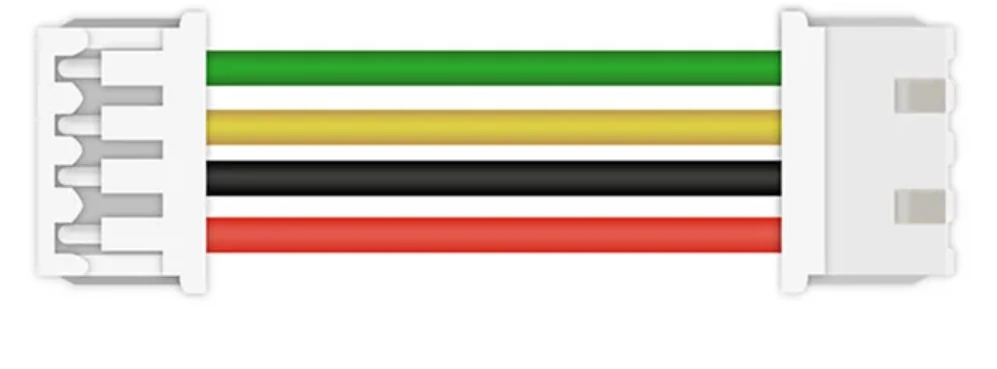
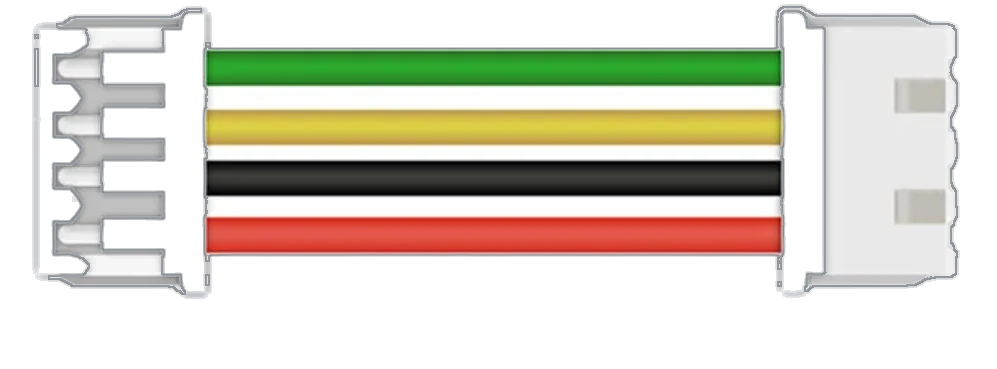
The owner's review of STEPFOC (2026-11-11): presets, the 1 mm gap, the model render, pictures without backgrounds
- Quick start part 3 and Motor parameters and calibration: a tip at the motor parameters recommending a Motor GUI
  preset (it enters the pole pairs, R and L with safe limits and gains; Generic motor for any other stepper, from
  the datasheet values), as Motor GUI's presets.ts does.
- The 1 mm is between the magnet and the encoder chip, not the board: the quick start's step and Check, the
  mounting page's spacer, step and Check.
- Dimensions and CAD, figure 3.3: a render of the board's model (the configurator's GLB, from the STEP file),
  transparent, outlined per theme, instead of the STEP picture.
- Figures 4.5, 4.6, 4.8, 6.1 and 7.1 (the cable orientation, the termination switch, the thermal cement, the rotation
  direction, the JTAG pads) cut out of their white backgrounds, a light and a dark version each; the holes and the
  slot in the board are see-through, the JTAG label box stays.
- Over CAN, figure 6.2: the identifier's bit fields as the SVG figure the grippers use, light and dark.

Tests and the strict build pass; page_check finds only the replaced STEP picture.

diff --git a/docs/04-mounting/power-and-can.md b/docs/04-mounting/power-and-can.md
@@ -23,7 +23,8 @@ feeds the next driver, so a chain of drivers hangs on one supply cable and one C
     ways, and the wrong way puts DC+ on DC−. Every cable must run as in the picture below, the same way at both
     ends. A wrong cable destroys the driver at the moment it is powered.
 
-![The orientation of the daisy-chain cables. The picture shows a generic 4-pin cable; the rule is the same for the 2-pin CAN and power cables.](../assets/Orientation.webp){ width="600" }
+![The orientation of the daisy-chain cables. The picture shows a generic 4-pin cable; the rule is the same for the 2-pin CAN and power cables.](../assets/Orientation.webp#only-light){ width="600" }
+![The orientation of the daisy-chain cables. The picture shows a generic 4-pin cable; the rule is the same for the 2-pin CAN and power cables.](../assets/Orientation_dark.webp#only-dark){ width="600" }
 
 The cables from the shop are made this way: [CAN cable](https://source-robotics.com/products/spectral-micro-can-cable),
 [power cable](https://source-robotics.com/products/spectral-micro-power-cable), and all of them under
@@ -42,4 +43,5 @@ The cables from the shop are made this way: [CAN cable](https://source-robotics.
 - A PC joins the bus with the [CANvas adapter](https://source-robotics.com/products/canvas-usb-to-can-adapter),
   which has its own termination.
 
-![The termination switch, ON for the first and the last node.](../assets/STEPFOC_CAN.webp){ width="520" }
+![The termination switch, ON for the first and the last node.](../assets/STEPFOC_CAN.webp#only-light){ width="520" }
+![The termination switch, ON for the first and the last node.](../assets/STEPFOC_CAN_dark.webp#only-dark){ width="520" }

diff --git a/docs/04-mounting/mounting.md b/docs/04-mounting/mounting.md
@@ -7,15 +7,14 @@ rear screws, with a spacer between the motor and the board that sets the magnet 
    them one at a time and put the spacer and the board on at once.
 2. Put the spacer on the motor. The firmware repository has printable spacers for common motor lengths in
    [Stepper motor accessories](https://github.com/Source-Robotics/STEPFOC-stepper-controller/tree/main/STEP%20files/Stepper%20motor%20accessories)
-   (NEMA 17, a 21.5 mm NEMA 17 version, NEMA 23); for another motor, make a spacer that puts the board 1 mm above
-   the magnet.
+   (NEMA 17, a 21.5 mm NEMA 17 version, NEMA 23); for another motor, make a spacer that leaves 1 mm between the magnet and the encoder chip.
 3. Put the board on the spacer, encoder chip towards the magnet, and fit longer screws of the same thread (M3 on a
    NEMA 17). Tighten them evenly; the board must be parallel to the magnet.
-4. Check the gap: about 1 mm, the magnet not touching the chip.
+4. Check the gap between the magnet and the encoder chip: about 1 mm, the magnet not touching it.
 
 !!! success "Check"
-    The board sits parallel to the back of the motor, about 1 mm above the magnet, and the shaft turns by hand
-    without the magnet touching the chip. If the gap is wrong: [The encoder magnet](magnet.md).
+    The board sits parallel to the back of the motor, with about 1 mm between the magnet and the encoder chip, and
+    the shaft turns by hand without the magnet touching the chip. If the gap is wrong: [The encoder magnet](magnet.md).
 
 A NEMA 23 motor takes the NEMA 23 spacer from the same folder. A smaller frame, such as NEMA 14, needs an adapter
 plate you make yourself: the repository has none.

diff --git a/docs/quick-start/1-motor.md b/docs/quick-start/1-motor.md
@@ -25,13 +25,13 @@ More: [The encoder magnet](../04-mounting/magnet.md).
 2. Put the spacer on.
 3. Put the board on the spacer, with the encoder chip towards the magnet.
 4. Put the longer screws in.
-5. Check the gap: 1 mm, not touching.
+5. Check the gap between the magnet and the encoder chip: 1 mm, not touching.
 
     ![Picture needed: the board on its spacer on the back of the motor, with the four longer screws](../assets/pilot/s1-board-on-spacer.svg){ width="560" }
 
 !!! success "Check"
-    The board sits parallel to the back of the motor, about 1 mm above the magnet, and the shaft turns by hand
-    without the magnet touching the chip. If not: [Mounting on the motor](../04-mounting/mounting.md).
+    The board sits parallel to the back of the motor, with about 1 mm between the magnet and the encoder chip, and
+    the shaft turns by hand without the magnet touching the chip. If not: [Mounting on the motor](../04-mounting/mounting.md).
 
 More: [Mounting on the motor](../04-mounting/mounting.md).
 

diff --git a/docs/06-operation/can.md b/docs/06-operation/can.md
@@ -12,8 +12,8 @@ one frame back per motor and cycle.
 CAN 2.0 data frames with 11-bit identifiers at 1 Mbit/s. The identifier carries the node, the command and the
 error state:
 
-![Bits 10 to 7 of the identifier are the node ID, bits 6 to 1 the command ID, bit 0 the error bit.](../assets/CANID.PNG#only-light){ width="600" }
-![Bits 10 to 7 of the identifier are the node ID, bits 6 to 1 the command ID, bit 0 the error bit.](../assets/CANID_dark.webp#only-dark){ width="600" }
+![Bits 10 to 7 of the identifier are the node ID, bits 6 to 1 the command ID, bit 0 the error bit.](../assets/can-id.svg#only-light){ width="600" }
+![Bits 10 to 7 of the identifier are the node ID, bits 6 to 1 the command ID, bit 0 the error bit.](../assets/can-id_dark.svg#only-dark){ width="600" }
 
 - **Node ID**, bits 10 to 7: which driver, 0 to 15. A driver acts only on frames with its own node ID and sends
   with it. Set it with `#CANID` or Send_CAN_ID and save; every driver ships as node 0. Use 0 to 13: the

diff --git a/docs/05-setup/calibration.md b/docs/05-setup/calibration.md
@@ -48,6 +48,12 @@ STEPFOC does not measure the resistance and inductance of a stepper (the Spectra
 enter them from the motor's datasheet, as the values of **one coil**, and the pole pairs. Calibration fails on a
 value left at 0, and accepts only 50, 75, 100 or 125 pole pairs.
 
+!!! tip "We recommend a Motor GUI preset"
+    In Motor GUI's **Presets** tab, a preset enters these values for you, with safe limits and gains. For a Source
+    Robotics product, pick its preset. For any other stepper, pick *Generic motor* and type the pole pairs, the
+    resistance and the inductance from the datasheet: the preset writes them with a low current limit and soft
+    loops, so the motor calibrates safely. More: [Motor GUI](motor-gui.md).
+
 === "Motor GUI"
     In the motor settings enter *Pole pairs* (50 for a 1.8° motor, 75 for 1.2°, 100 for 0.9°, 125 for 0.72°),
     *Resistance* in ohms and *Inductance* in henries, and apply them.

diff --git a/docs/03-technical-data/dimensions.md b/docs/03-technical-data/dimensions.md
@@ -15,7 +15,8 @@ on the motor shaft's axis.
 ![Board dimensions and hole pattern. The drawing is of the Spectral Micro, which has the same outline and hole pattern.](../assets/micro_dimensions.webp#only-light){ width="600" }
 ![Board dimensions and hole pattern. The drawing is of the Spectral Micro, which has the same outline and hole pattern.](../assets/micro_dimensions_dark.webp#only-dark){ width="600" }
 
-![The STEP model.](../assets/STEPFOC_STEP.webp){ width="520" }
+![The board's model, from its STEP file: the PCB and everything mounted on it.](../assets/renders/stepfoc_board.webp#only-light){ width="620" }
+![The board's model, from its STEP file: the PCB and everything mounted on it.](../assets/renders/stepfoc_board_dark.webp#only-dark){ width="620" }
 
 The STEP files of the board, the magnet spacers for different motor lengths and the tool for pressing the magnet
 onto the shaft are in the firmware repository:

diff --git a/docs/06-operation/modes.md b/docs/06-operation/modes.md
@@ -109,7 +109,8 @@ None of these settings is saved.
 
 ## Positive rotation
 
-![Positive rotation is counter-clockwise looking at the encoder magnet. A positive current turns the motor that way, a positive speed too, and the position grows.](../assets/STEPFOC_ORIENTATION.webp){ width="700" }
+![Positive rotation is counter-clockwise looking at the encoder magnet. A positive current turns the motor that way, a positive speed too, and the position grows.](../assets/STEPFOC_ORIENTATION.webp#only-light){ width="700" }
+![Positive rotation is counter-clockwise looking at the encoder magnet. A positive current turns the motor that way, a positive speed too, and the position grows.](../assets/STEPFOC_ORIENTATION_dark.webp#only-dark){ width="700" }
 
 ## Which mode am I in?
 

diff --git a/docs/07-firmware/bootloader.md b/docs/07-firmware/bootloader.md
@@ -34,7 +34,8 @@ once, with a programming adapter on the JTAG connector. After that, every update
 === "macOS"
     STM32CubeProgrammer; the ST-LINK Utility runs on Windows only. The adapter needs no driver.
 
-![The JTAG pads, marked 3V3, GND, SWCLK, SWDIO. The adapter is pressed onto them; a little pressure makes the contact.](../assets/STEPFOC_JTAG.webp){ width="700" }
+![The JTAG pads, marked 3V3, GND, SWCLK, SWDIO. The adapter is pressed onto them; a little pressure makes the contact.](../assets/STEPFOC_JTAG.webp#only-light){ width="700" }
+![The JTAG pads, marked 3V3, GND, SWCLK, SWDIO. The adapter is pressed onto them; a little pressure makes the contact.](../assets/STEPFOC_JTAG_dark.webp#only-dark){ width="700" }
 
 ## Steps
 

diff --git a/docs/04-mounting/thermistor.md b/docs/04-mounting/thermistor.md
@@ -20,7 +20,8 @@ windings as possible: either glued to the side of the housing, or in one of the 
 bottom with the screw removed, which puts it deep in the stack. Thermal cement holds it and conducts the heat.
 
 <figure markdown="span">
-  ![Thermal cement](../assets/Thermal_cement.webp){ width="220" }
+  ![Thermal cement](../assets/Thermal_cement.webp#only-light){ width="220" }
+  ![Thermal cement](../assets/Thermal_cement_dark.webp#only-dark){ width="220" }
   <figcaption>Thermal cement: it sets hard and conducts heat. Thermal paste stays soft and lets the bead move, ordinary glue insulates it. <a href="https://s.click.aliexpress.com/e/_c3dBOwTD" target="_blank" rel="noopener">Where to buy it</a>.</figcaption>
 </figure>
 

diff --git a/docs/quick-start/3-calibrate.md b/docs/quick-start/3-calibrate.md
@@ -33,6 +33,12 @@ From the motor's datasheet, for **one coil**:
 
 STEPFOC does not measure these; calibration fails on a value left at 0.
 
+!!! tip "We recommend a Motor GUI preset"
+    In Motor GUI's **Presets** tab, a preset enters these values for you, with safe limits and gains. For a Source
+    Robotics product, pick its preset. For any other stepper, pick *Generic motor* and type the pole pairs, the
+    resistance and the inductance from the datasheet: the preset writes them with a low current limit and soft
+    loops, so the motor calibrates safely. More: [Motor GUI](../05-setup/motor-gui.md).
+
 === "Motor GUI"
 
     Enter *Pole pairs*, *Resistance* and *Inductance* in the motor settings and apply them.
